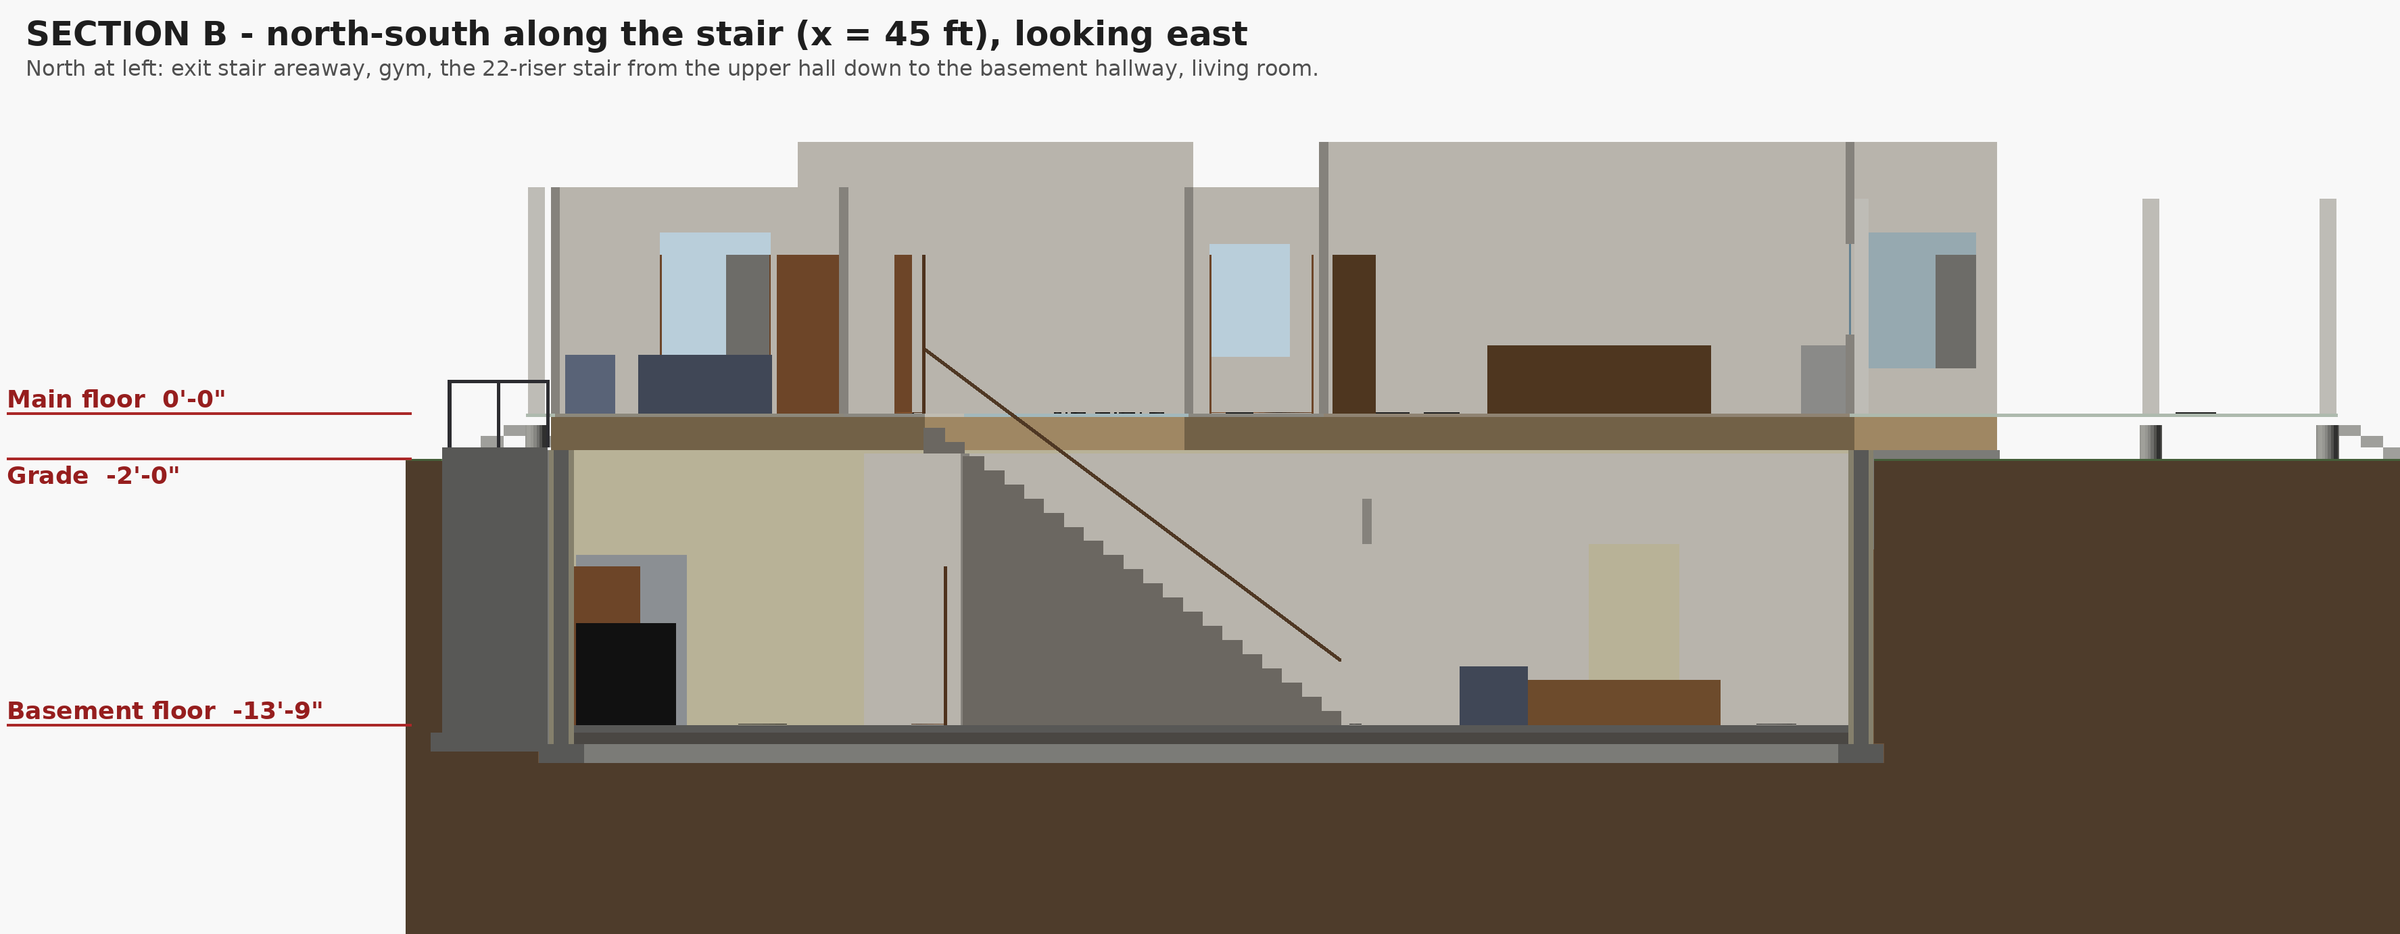
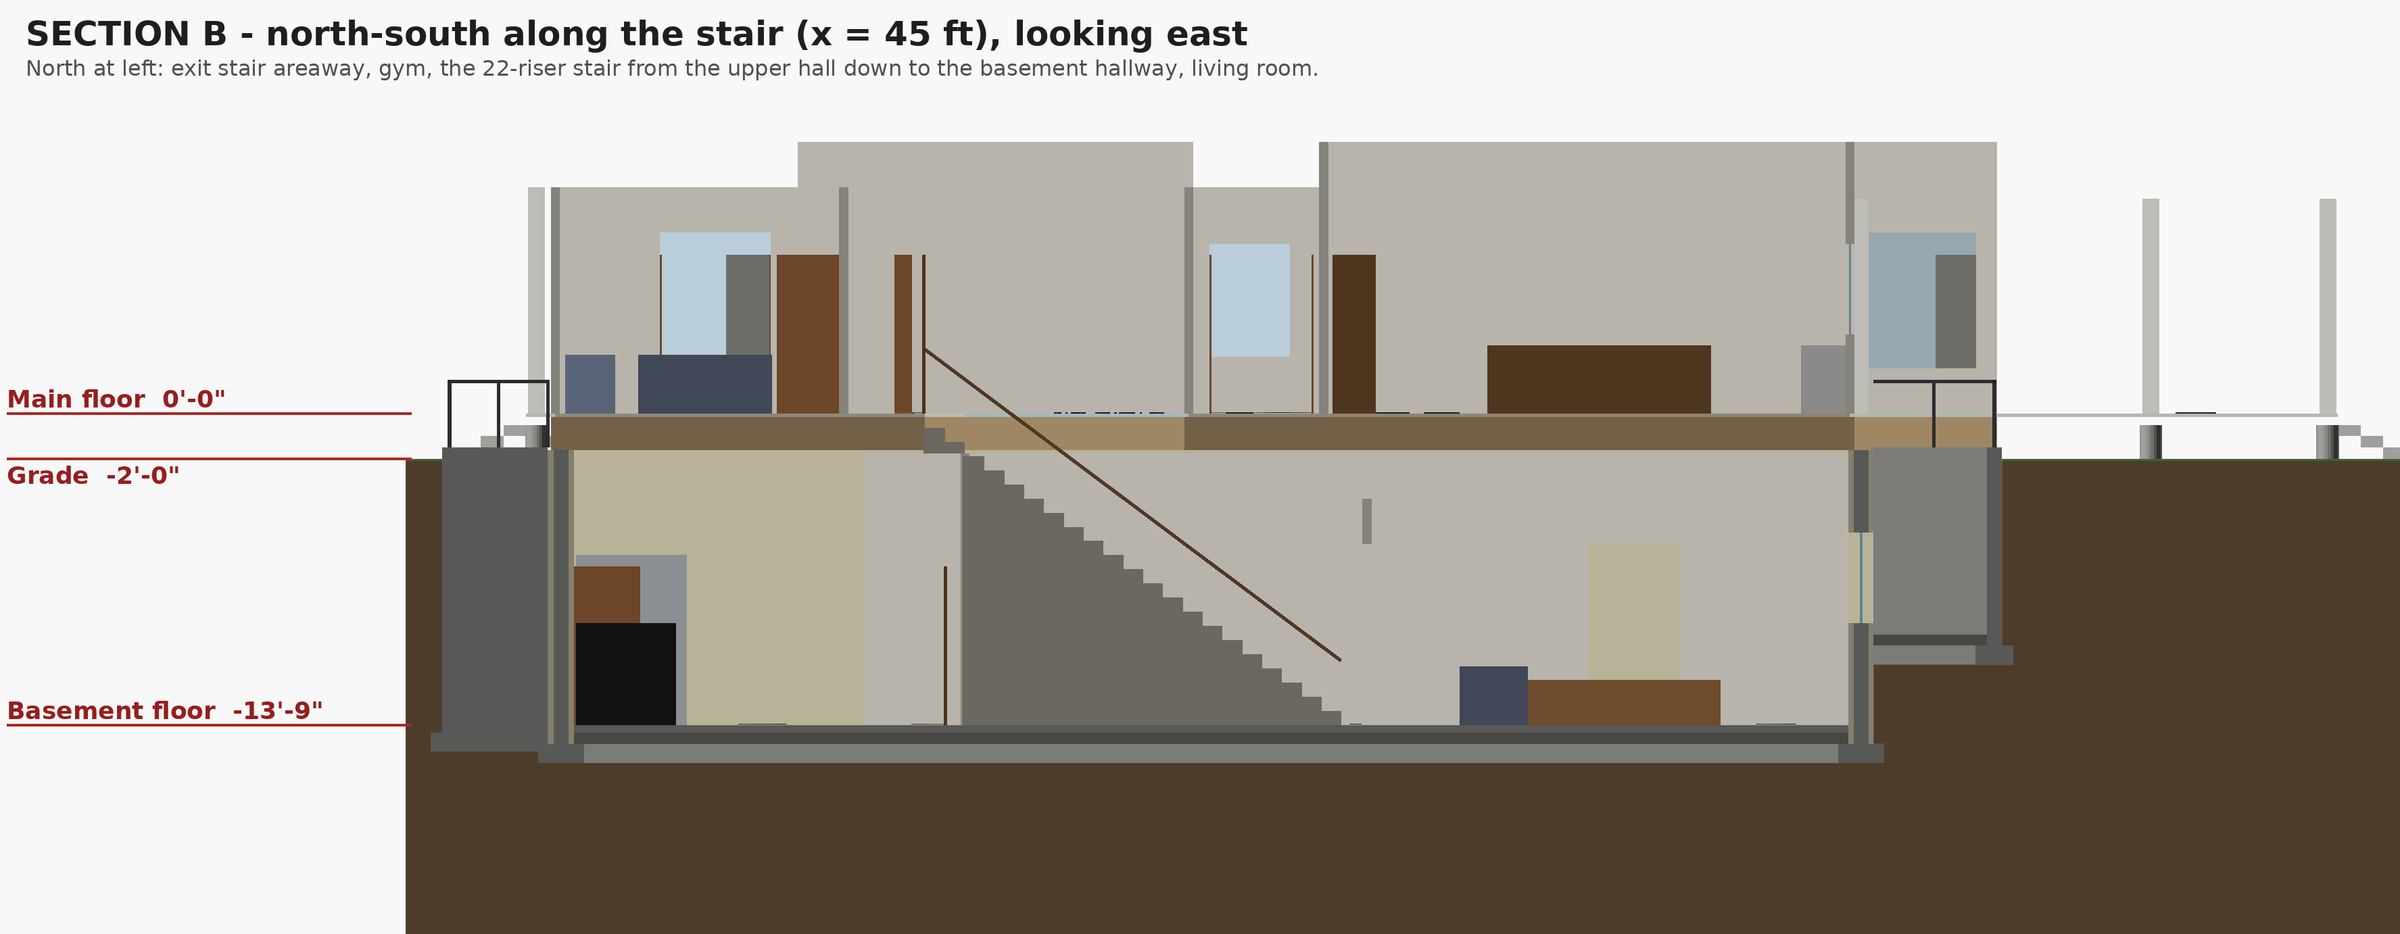
Basement windows in light wells; pull-through shop with a wrap-round drive
- Basement windows (foundation.scad basement_windows(), basement.scad):
  an 8 ft south window for the living room in a 9 x 5 ft light well in
  front of the kitchen, and a 3 ft north window for the music room in a
  well between the bunk room and the study stoop. Each well has concrete
  walls on footings, a stone floor 6" below the sill, a 6" curb and a
  42" guard. The openings are cut through the ICF, and the bunk room's
  frost wall is carried down beside its well. The lawn and the site
  ground stay open over the wells. The gym gets its light through a
  glazed exit door.
- Spec section 7: no egress windows are needed (no basement bedrooms,
  and there is the exit stair). Natural light is probably not required
  either, but the classing of the basement living room is for the
  building official. The section has the window plan and the options.
- Shop (shop.scad): the two truck bays and the wash bay are pull-through,
  with three 14 x 14 doors in the east wall opposite the west ones
  (3 bays, 6 doors). The Bay 2/3 benches and the wash plant move off the
  drive lanes.
- Site (site.scad): the drive wraps round the shop, from the west apron
  along the north side to a 60 ft east apron. The tree belt's north and
  east rows move outside it. Shop-Base-Plan.md gets a v4 note.
- Renders: the property from two sides, the site and shop plans, the
  shop's six doors, the basement in 3D, the light wells, and the house
  views and sections.
[…]

Changed region(s): [[0.75, 0.4657, 0.8438, 0.7141], [0.7812, 0.4036, 0.8438, 0.4347]]

diff --git a/docs/house/Redesign-and-Spec-2026-11-02.md b/docs/house/Redesign-and-Spec-2026-11-02.md
@@ -11,7 +11,8 @@ This document covers:
 4. the concrete for the indoor pool and the hot tub that spills into it;
 5. the stadium-tiered home theater floor;
 6. the basement exit stair;
-7. the open questions.
+7. basement windows;
+8. the open questions.
 
 **Update, Nov 2:**
 
@@ -20,6 +21,9 @@ This document covers:
 - The basement has an exit stair up to the back yard (section 6).
 - The shop tunnel will connect to the basement utility room; its route
   comes later.
+
+**Update, Nov 2 (later):** basement windows are planned: two light wells
+and a glazed exit door (section 7).
 
 The site is rural Alberta (see
 [`../House-Review-and-Research-2026-10-28.md`](../House-Review-and-Research-2026-10-28.md)).
@@ -46,6 +50,8 @@ Code references are to the National Building Code, Alberta Edition (NBC-AE), and
 | Section D: through the pool and spa | [`section_d.png`](section_d.png) |
 | Section E: along the basement exit stair | [`section_e.png`](section_e.png) |
 | The exit stair, from the back yard and cut open | [`exit_stair.png`](exit_stair.png), [`exit_stair_cut.png`](exit_stair_cut.png) |
+| The basement light wells | [`light_wells.png`](light_wells.png) |
+| The basement alone, in 3D | [`basement_3d.png`](basement_3d.png) |
 | Foundation alone | [`foundation.png`](foundation.png) |
 | Both levels, apart | [`house_exploded.png`](house_exploded.png) |
 | Outside | [`house_front.png`](house_front.png), [`house_back.png`](house_back.png) |
@@ -117,6 +123,7 @@ For 10 ft ceilings, set it to 11.75.
    room's north wall, nearest the kitchen and the nook. The plan had no
    door onto the deck.
 9. **Basement exit stair**: added outside the gym (section 6).
+10. **Basement windows**: two windows in light wells (section 7).
 
 `tools/check_layout.py` checks both levels after every edit. It confirms:
 
@@ -479,16 +486,70 @@ rules them out.
 - **Service entrance.** A straight stair and a 3'-6" door are also how the
   piano, the gym equipment and the pool plant get into the basement.
 
-## 7. Open questions for you
+## 7. Basement windows
+
+### 7.1 Do you need them?
+
+**Egress windows: no.** The NBC requires an egress window, or an outside
+door, from each bedroom (9.9.10). The basement has no bedrooms, and the
+exit stair (section 6) is a second way out anyway.
+
+**Natural light: probably not, but ask.**
+- NBC 9.7.2 sets minimum window glass by room type. Living rooms, dining
+  rooms and bedrooms are the strictest.
+- Basement recreation rooms and unfinished basements carry the smallest
+  requirement, and electric lighting can often stand in.
+- Whether the building official reads the basement "living room" and
+  "music room" as recreation rooms is their call: ask the municipality
+  *verify*.
+- If they class the living room as a living room, it needs glass equal to
+  about 10 % of its floor, roughly 40 ft². Two windows would be needed.
+
+**Livability: yes, a few.** A 3,000 ft² basement with a gym, a music room
+and a living room is a lot of space with no daylight.
+
+**What makes windows expensive here.** The floor is 11'-9" below grade.
+Every window needs a light well about 8 ft deep:
+- concrete walls and a drain;
+- a guard or a walkable grate;
+- a buck and lintel in the ICF before the pour.
+
+And most of the basement's outside walls sit under the house or its
+porches, where no well can go.
+
+### 7.2 The plan
+
+![Basement light wells](light_wells.png)
+
+| Room | Window | Light well | Notes |
+|---|---|---|---|
+| Living room | 8'-0" × 4'-0", sill 4'-6" above the floor, south-facing | 9 × 5 ft, in front of the kitchen's front wall, beside the front porch | The best one: the main room, with south sun. Terrace or plant the well's outer side so it reads as a sunken garden, not a pit |
+| Music room | 3'-0" × 4'-0", north | 3'-5" × 5'-3", between the bunk room and the study stoop | Small, but the room's only daylight. The bunk room's frost wall is carried down to the well floor, as at the exit stair |
+| Gym | a full-glass 3'-6" exit door | the exit stair's areaway | No extra digging |
+
+**Optional:**
+- **Pool room:** the only place for a well is under the deck. Daylight
+  could come down through a glazed or open section of the deck floor above
+  a well at the pool room's north wall. Worth pricing, since an indoor pool
+  with no daylight is gloomy, but it is not modelled.
+- **Living room, second window:** a second well in the corner between the
+  garage and the kitchen, west of the living room. Use it if the official
+  wants about 10 % glass there.
+
+**For the ICF crew:**
+- Window bucks at the right heights before the pour.
+- Lintels sized for the 13 ft walls.
+- Each well's drain tied to the weeping tile and the sump.
+
+## 8. Open questions for you
 
 1. **Utility tunnel to the shop.** It will connect to the basement's
    UTILITY room: 14'-6" × 7', on the west side, behind the storage room.
    Its route comes later.
    - Until then, `models/site.scad` keeps drawing it on x = 80, which meets
      the pool room's north wall.
-   - The site and shop renders in `docs/shop/` still show the old house.
-2. **Daylight in the basement.** There are still no windows. Window bucks
-   have to go into the ICF before the pour, so decide before then.
+2. **Natural light.** Confirm with the municipality how the basement
+   living room is classed (section 7.1).
 3. **Geotech first.** These all hang on the report:
    - sulphate class (cement type);
    - seasonal-high groundwater against a pool pit 18 ft down;

diff --git a/docs/shop/Shop-Base-Plan.md b/docs/shop/Shop-Base-Plan.md
@@ -22,6 +22,33 @@ side of the basement, so v3 gives the tunnel the direct landing v2
 couldn't: **no basement room is touched at all**, and v2's theater
 receiving-room proposal is dead. §5 and §6 carry the details.
 
+**Update v4 (2026-11-02, Jordan):** the two truck bays and the wash
+bay become **pull-through**: each gets a second 14 × 14 door in the
+**east** wall, opposite its west door, so there are 3 bays with 6 doors.
+Bay 1 keeps its single west equipment door. The drive **wraps round the
+shop** for this:
+- from the west apron along the **north** side (32 ft wide);
+- to a **60 ft deep east apron** in front of the new doors (x 100–160).
+
+A truck drives in from the west, out to the east, and loops back without
+entering the back yard.
+
+As a result:
+- the tree belt's north and east rows move out past the drive (north
+  row at y ≈ 276, east row at x ≈ 174);
+- the Bay 2/3 benches move from the east wall to the bays' sides near the
+  east end;
+- the wash plant moves from the east end to the wash bay's north wall.
+
+Lay out the drive corners for a tractor-trailer's ~50 ft outside turning
+radius. Keep trucks off the well with bollards: it is at (140, 110),
+16 ft south of the east apron. Where the text below says "doors on the
+west wall" or "benches/wash plant at the east end", this update
+supersedes it.
+
+Renders: `site_3d.png`, `site_3d_ne.png`, `site_plan.png`, `shop_3d.png`,
+`shop_plan.png`.
+
 **The concept, in Jordan's words:** the shop is the property's utility hub.
 Power, water, gas, internet and heat originate in the shop's utility bay,
 cross to the house in a heated, walkable tunnel with the services under floor
@@ -39,7 +66,7 @@ shop the same way.
 |---|---|---|
 | A1 | Shop sits **behind (north of) the house**: south wall at house-frame y = 130, west wall aligned with the garage's west wall (x = 0), so the shop occupies x 0–100, y 130–230 | Jordan v3. Leaves ~62 ft of back yard between the house's north porches and the shop |
 | A2 | The tunnel runs on house-frame **x = 80**, the centreline of both the basement UTILITIES room (x 60.1–100.1) and Bay 1's portal room (shop-local x 72–88) | One straight north–south line: Bay 1 → tunnel → UTILITIES north wall. Tunnel length ~70 ft |
-| A3 | Bays run **east–west** (100 ft deep), doors on the **west** wall, each bay 25 ft wide, stacking south → north: utilities, work, work + pit, wash (v3, Jordan) | Bay 1 southernmost = shortest tunnel and shortest runs to the house |
+| A3 | Bays run **east–west** (100 ft deep), doors on the **west** wall, each bay 25 ft wide, stacking south → north: utilities, work, work + pit, wash (v3, Jordan). **v4:** Bays 2–4 also get east-wall doors (pull-through), with a wrap-round drive | Bay 1 southernmost = shortest tunnel and shortest runs to the house |
 | A4 | The tunnel lands **directly in the UTILITIES room** through its north foundation wall (§5) | UTILITIES' north wall IS foundation — v3 needs no new basement room and touches no other room |
 | A5 | The drilled well itself is **outside** the shop (east side); what lives in Bay 1 is the well *equipment*. Septic tank/field go west/north-west, as far from the well as the layout allows | §4.3, §7 — wellheads inside buildings are a contamination/access problem; ≥ 30 m well-to-septic separation |
 | A6 | **Gas does not run inside the tunnel** by default; it goes direct-buried alongside it | §6.3 — gas in an enclosed occupied tunnel is the one part of the concept an inspector is likely to refuse as drawn |

diff --git a/README.md b/README.md
@@ -22,12 +22,12 @@ for:
 | File | What |
 |---|---|
 | `models/main_floor.scad` | Main level from `main_floor.jpg`: rooms, doors, windows, kitchen and bath fixtures, furniture, porches, hipped roof, the floor framing |
-| `models/basement.scad` | Lower level from `basement.jpg`, with 12 ft ceilings: music room, gym, theater, pool + spa + pool bath, pet room, living room, utility, laundry, and the exit stair up to the back yard |
+| `models/basement.scad` | Lower level from `basement.jpg`, with 12 ft ceilings: music room, gym, theater, pool + spa + pool bath, pet room, living room, utility, laundry, the exit stair up to the back yard, and windows in two light wells |
 | `models/foundation.scad` | The concrete: ICF basement walls and footings, slab, theater tiers, pool + spa shells, the exit stair's areaway, frost walls, garage slab, porch piers, and the earth for sections |
 | `models/house_combined.scad` | Everything together (it `use`s the files above): assembled, exploded, foundation and section views |
 | `models/house_lib.scad` | Shared modules, the floor-to-floor height and the stair |
-| `models/shop.scad` | The 100 × 100 ft 4-bay shop (v3: behind the house, front faces west, Bay 1 utilities southernmost) with pit, wash-bay drain and the Bay 1 utility rooms |
-| `models/site.scad` | The whole property: house, shop, west shared driveway, front loop + garden, shop tree belt, well and septic zones. It also has the utility tunnel from Bay 1 to the basement, which will connect to the basement utility room; its route is still to be planned (spec §7) |
+| `models/shop.scad` | The 100 × 100 ft 4-bay shop (behind the house, Bay 1 utilities southernmost) with pull-through doors on the two truck bays and the wash bay (3 bays, 6 doors), the pit, the wash-bay drain and the Bay 1 utility rooms |
+| `models/site.scad` | The whole property: house, shop, west shared driveway with the wrap-round drive (north side and east apron) for the pull-through bays, front loop + garden, shop tree belt, well and septic zones. It also has the utility tunnel from Bay 1 to the basement, which will connect to the basement utility room; its route is still to be planned (spec §7) |
 | `tools/check_layout.py` | Layout checker (needs `openscad` on `PATH`) |
 
 Research and planning documents live in `docs/`:
